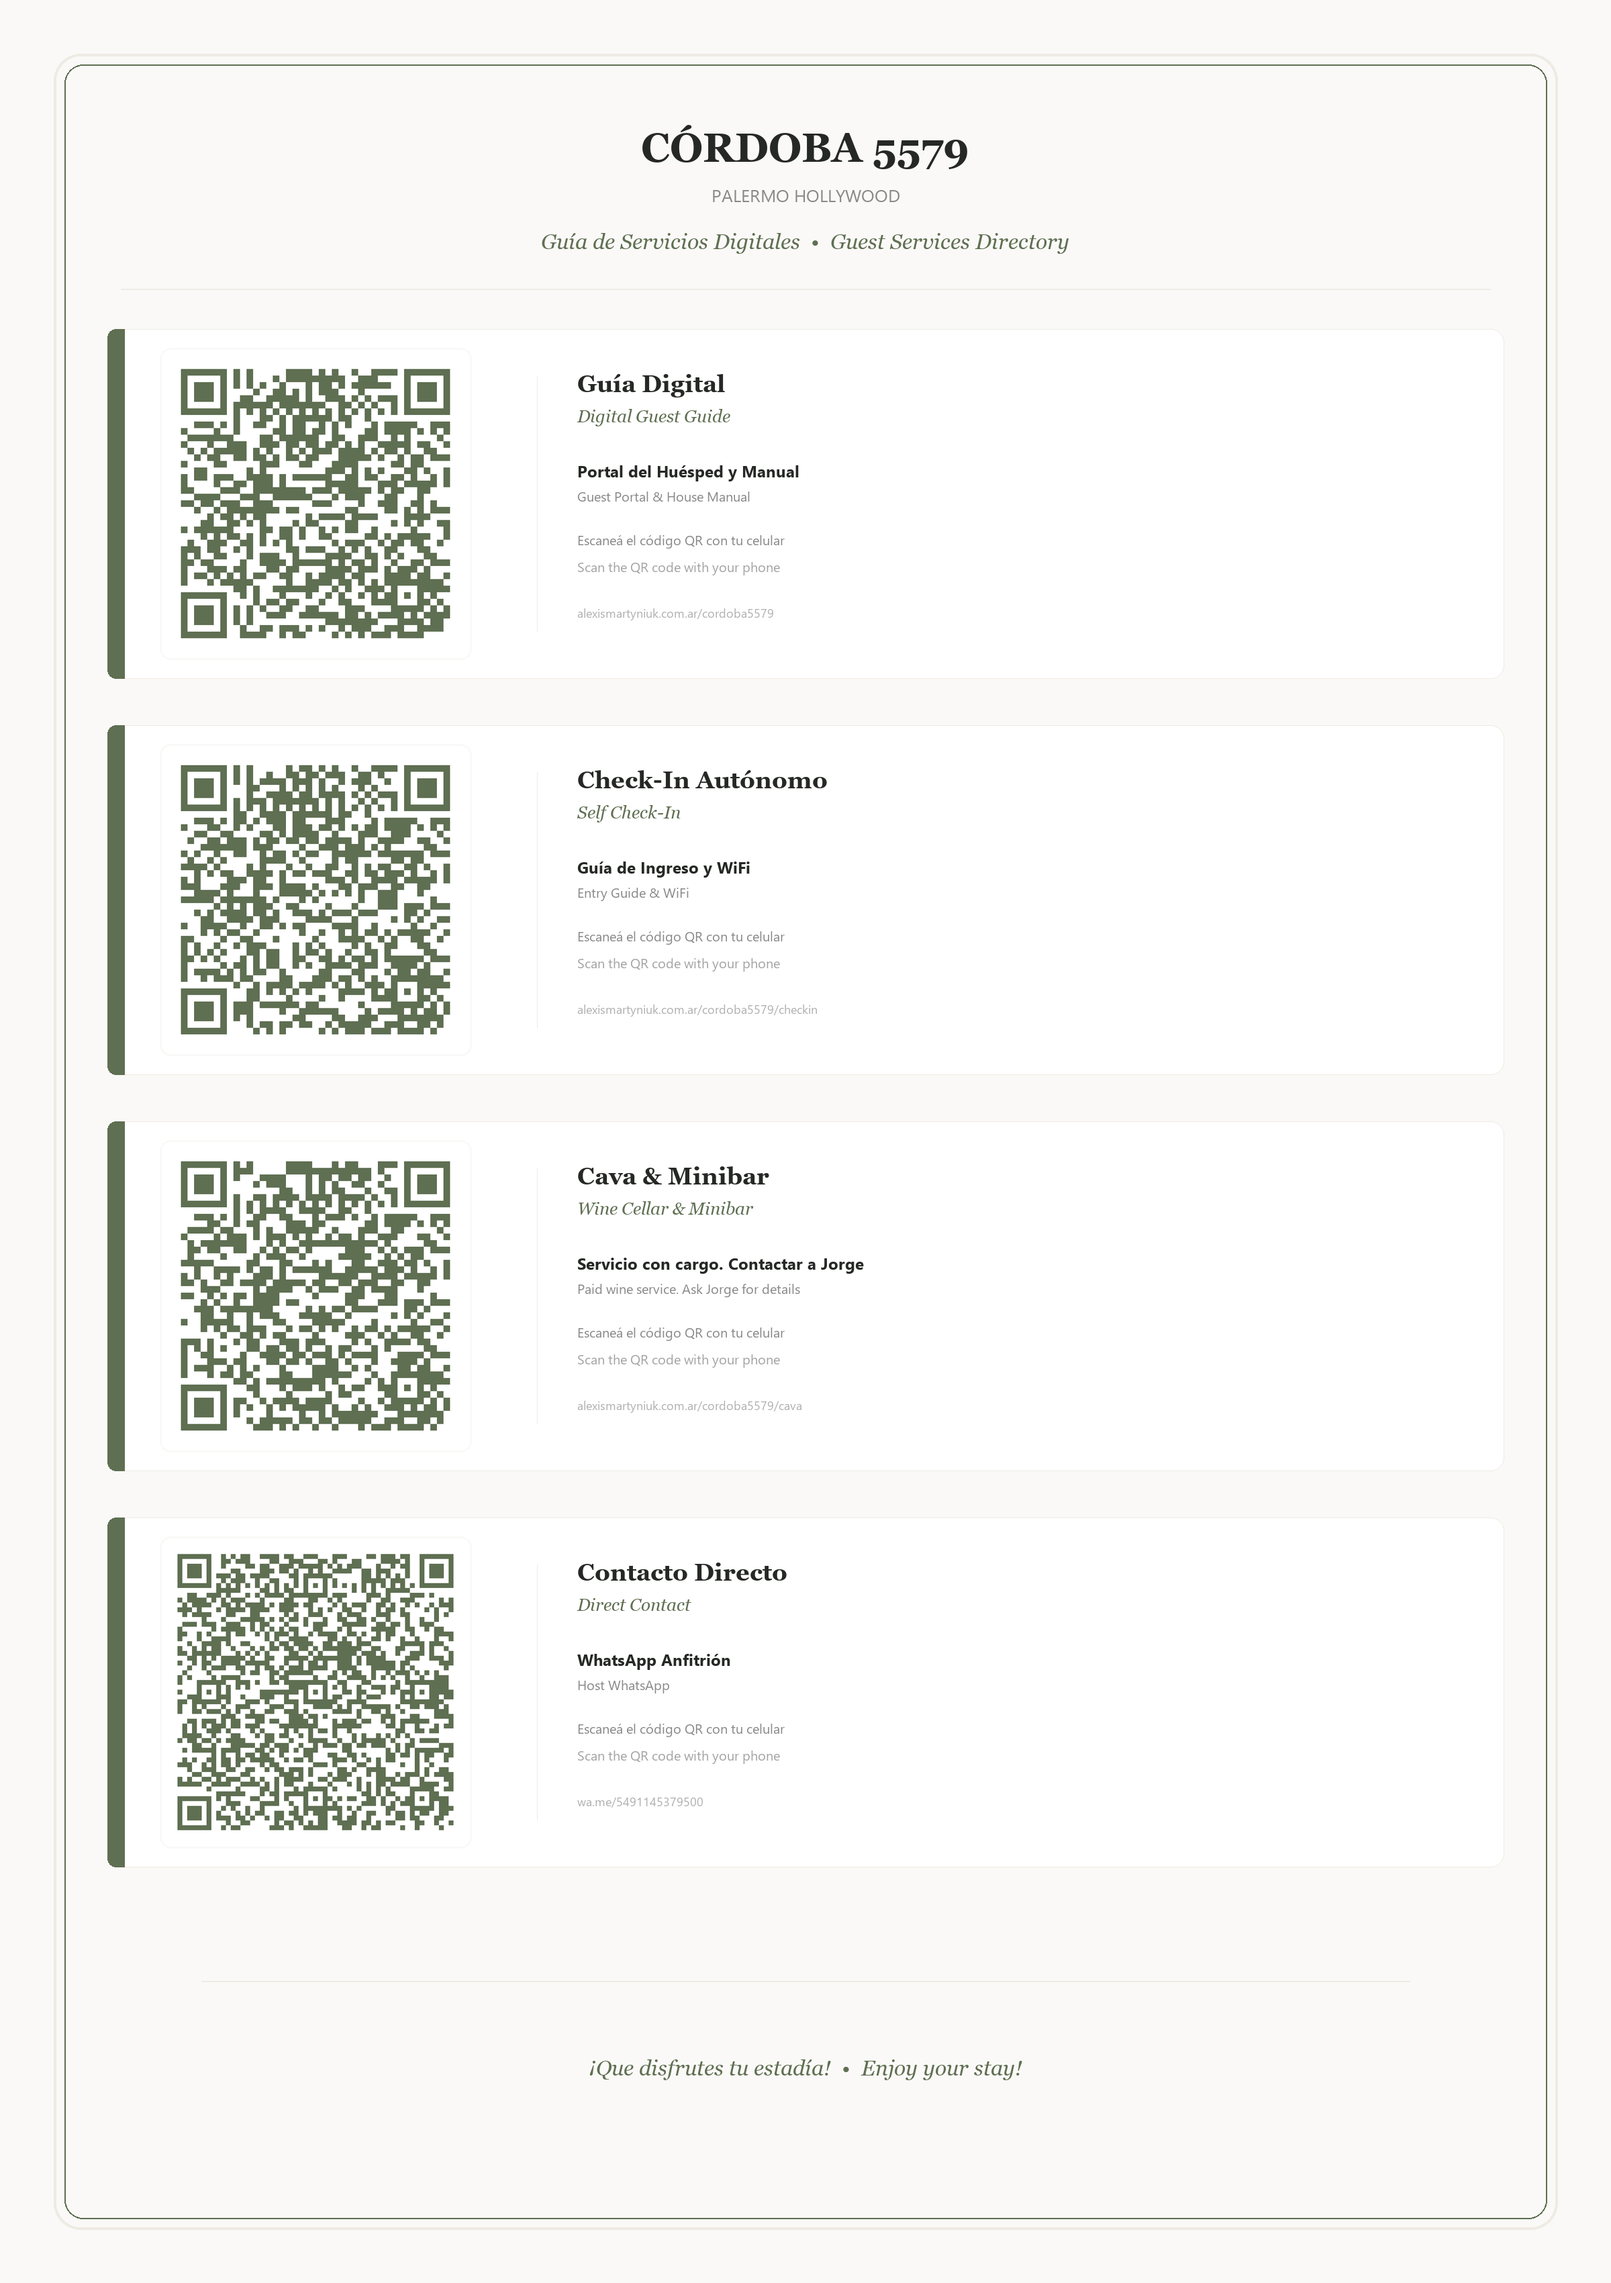
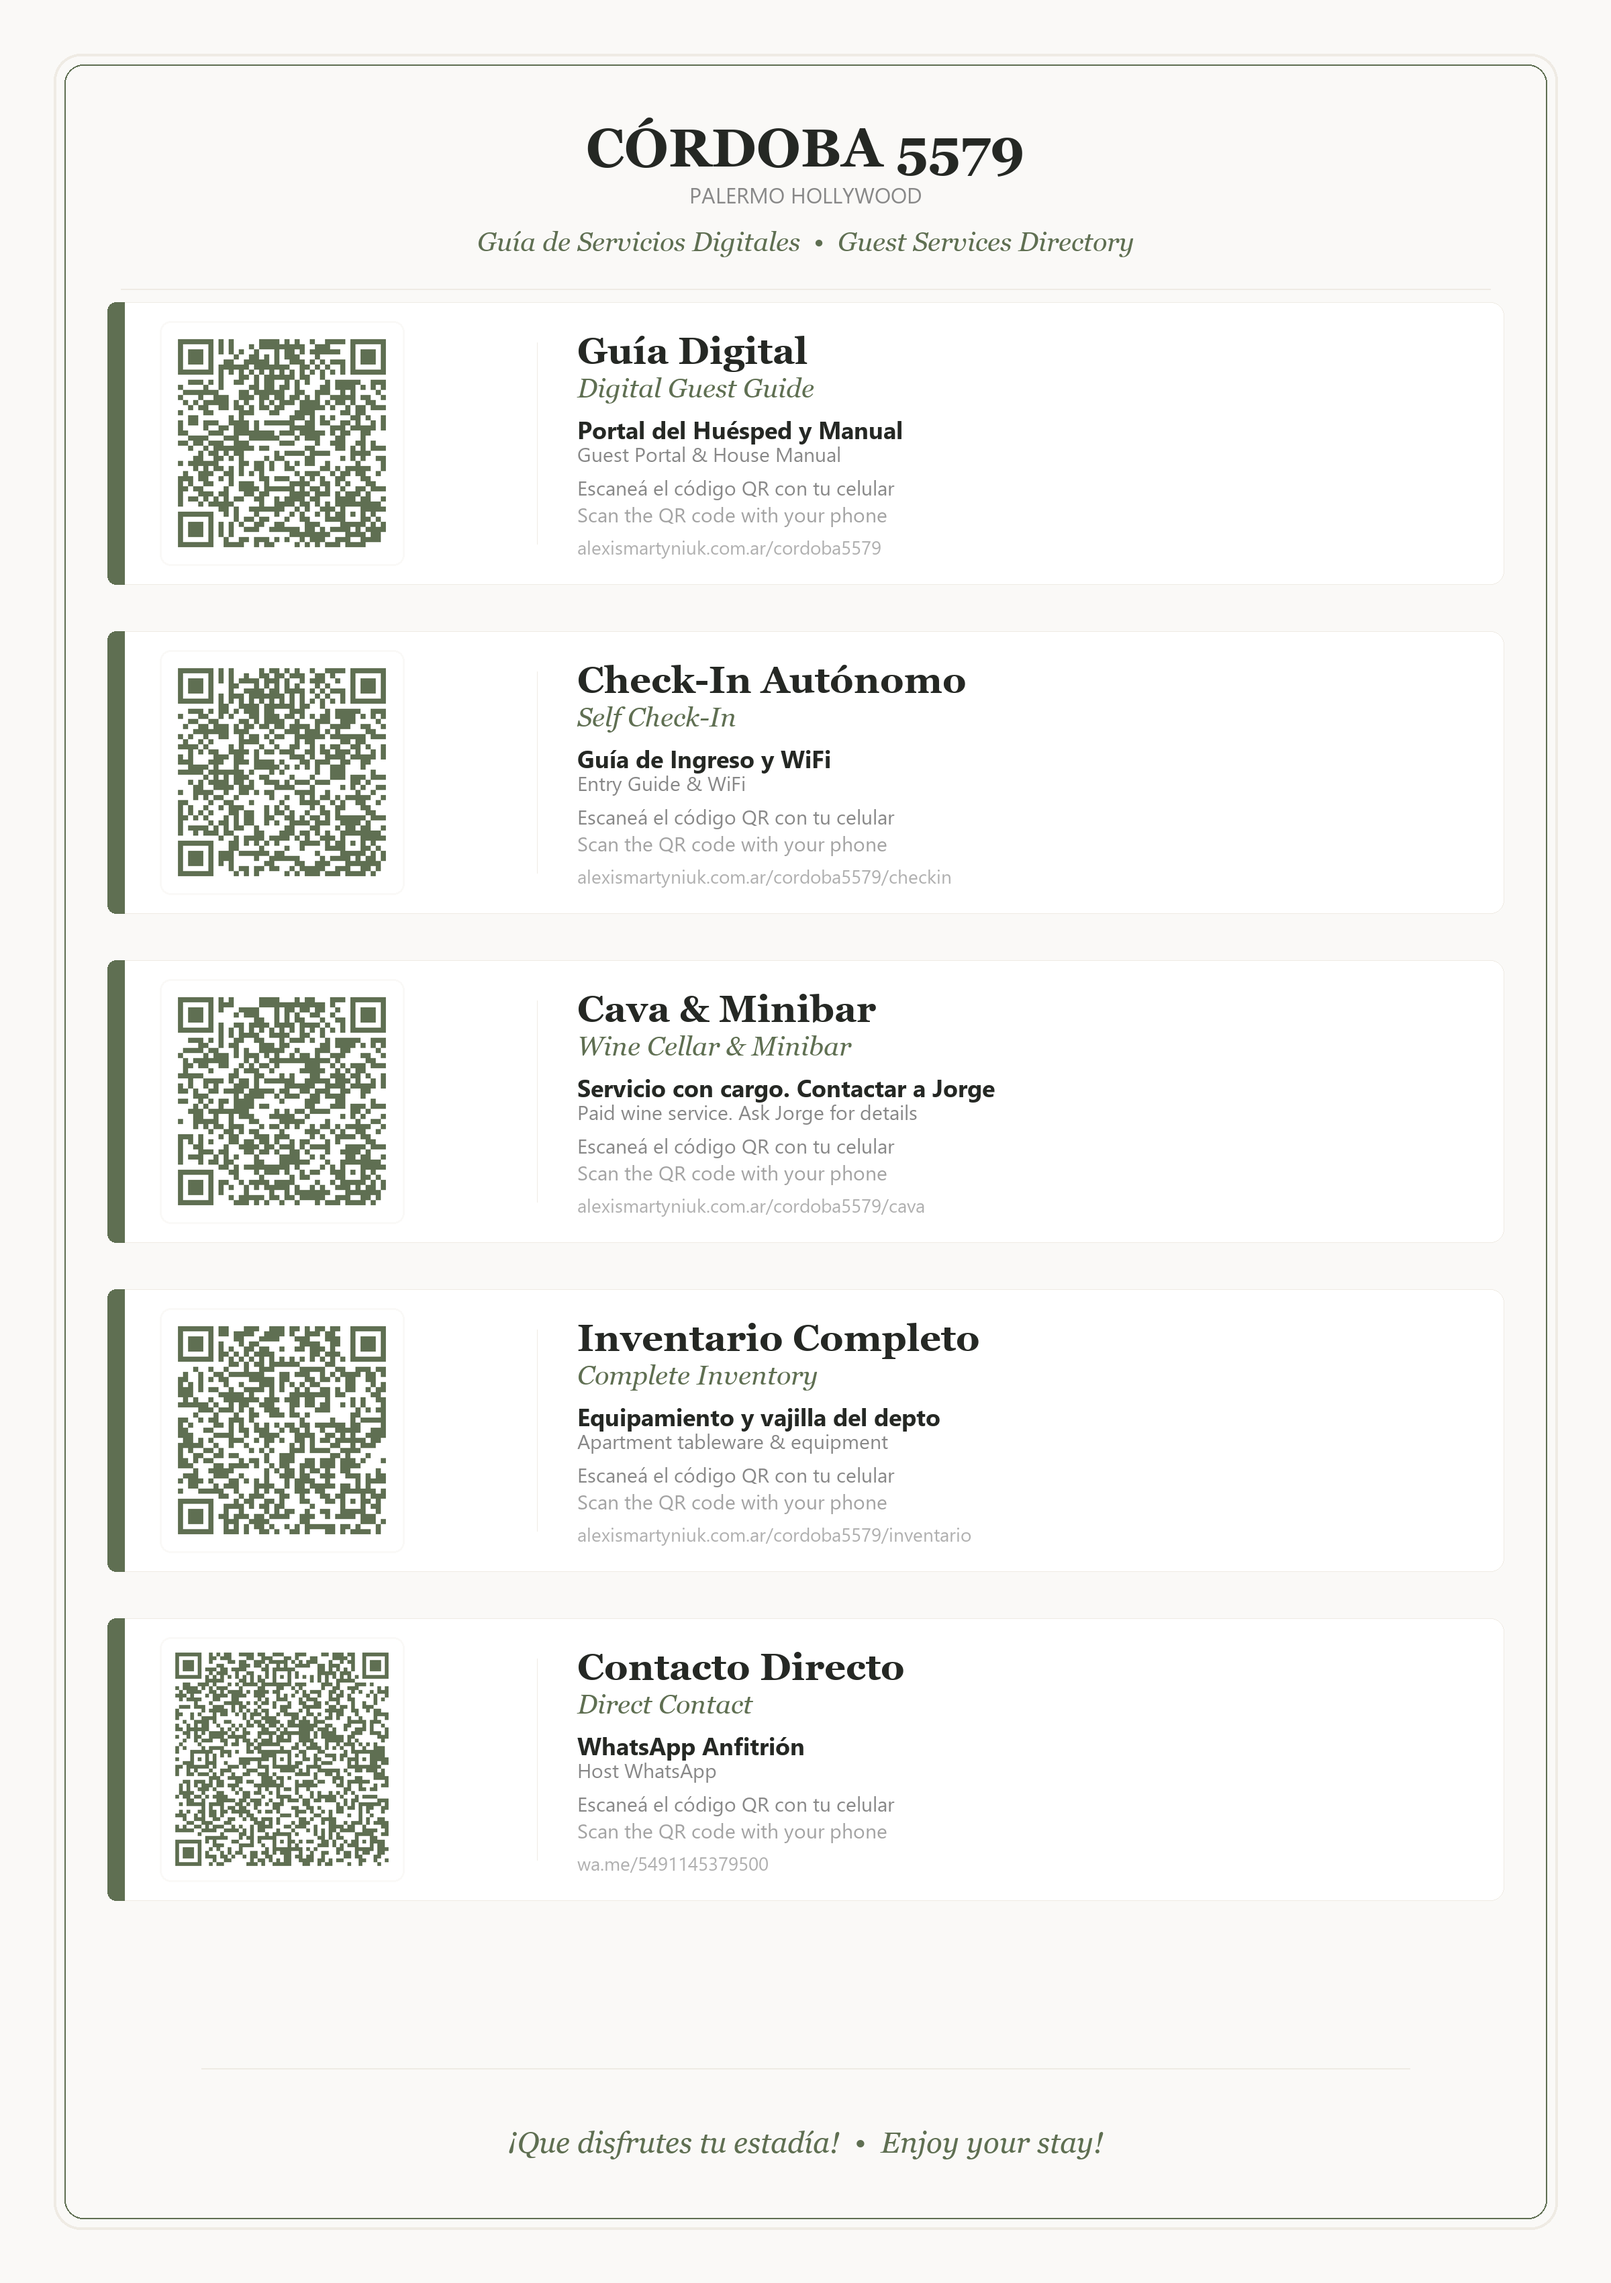
feat: add inventario QR code, include in unified sheet, and significantly enlarge sheet fonts for print readability

diff --git a/scripts/generate_qrs.py b/scripts/generate_qrs.py
@@ -42,6 +42,17 @@ CODES = [
         "bg": "#FAF9F7",
     },
     {
+        "name": "inventario",
+        "url": f"{BASE_URL}/inventario",
+        "display_url": "alexismartyniuk.com.ar/cordoba5579/inventario",
+        "label_es": "Inventario Completo",
+        "label_en": "Complete Inventory",
+        "sublabel_es": "Equipamiento y vajilla del depto",
+        "sublabel_en": "Apartment tableware & equipment",
+        "color": "#5F6F52",         # Olive green
+        "bg": "#FAF9F7",
+    },
+    {
         "name": "whatsapp",
         "url": WHATSAPP_URL,
         "display_url": "wa.me/5491145379500",
@@ -169,39 +180,37 @@ def make_card(code: dict) -> Image.Image:
     return card.convert("RGB")
 
 
-
-
 def make_unified_sheet() -> Image.Image:
-    """Generate a single unified A4 portrait guide (2400×3400px) with 4 horizontal rows of QRs."""
+    """Generate a single unified A4 portrait guide (2400×3400px) with 5 horizontal rows of QRs."""
     W, H = 2400, 3400
     card = Image.new("RGBA", (W, H), "#FAF9F7")
     draw = ImageDraw.Draw(card)
 
     # Use premium system fonts if available
     try:
-        font_logo = ImageFont.truetype("georgiab.ttf", 60) # Large Serif Logo
-        font_logo_sub = ImageFont.truetype("segoeui.ttf", 26)
-        font_logo_tag = ImageFont.truetype("georgiai.ttf", 32)
+        font_logo = ImageFont.truetype("georgiab.ttf", 80) # Large Serif Logo
+        font_logo_sub = ImageFont.truetype("segoeui.ttf", 32)
+        font_logo_tag = ImageFont.truetype("georgiai.ttf", 40)
         
-        font_title_es = ImageFont.truetype("georgiab.ttf", 36)
-        font_title_en = ImageFont.truetype("georgiai.ttf", 26)
-        font_label = ImageFont.truetype("segoeuib.ttf", 24)
-        font_sublabel = ImageFont.truetype("segoeui.ttf", 20)
-        font_url = ImageFont.truetype("segoeui.ttf", 18)
-        font_footer = ImageFont.truetype("georgiai.ttf", 32)
+        font_title_es = ImageFont.truetype("georgiab.ttf", 56)
+        font_title_en = ImageFont.truetype("georgiai.ttf", 40)
+        font_label = ImageFont.truetype("segoeuib.ttf", 36)
+        font_sublabel = ImageFont.truetype("segoeui.ttf", 30)
+        font_url = ImageFont.truetype("segoeui.ttf", 28)
+        font_footer = ImageFont.truetype("georgiai.ttf", 44)
     except IOError:
         # Fallback to standard times / arial
         try:
-            font_logo = ImageFont.truetype("timesbd.ttf", 60)
-            font_logo_sub = ImageFont.truetype("arial.ttf", 26)
-            font_logo_tag = ImageFont.truetype("timesi.ttf", 32)
+            font_logo = ImageFont.truetype("timesbd.ttf", 80)
+            font_logo_sub = ImageFont.truetype("arial.ttf", 32)
+            font_logo_tag = ImageFont.truetype("timesi.ttf", 40)
             
-            font_title_es = ImageFont.truetype("timesbd.ttf", 36)
-            font_title_en = ImageFont.truetype("timesi.ttf", 26)
-            font_label = ImageFont.truetype("arialbd.ttf", 24)
-            font_sublabel = ImageFont.truetype("arial.ttf", 20)
-            font_url = ImageFont.truetype("arial.ttf", 18)
-            font_footer = ImageFont.truetype("timesi.ttf", 32)
+            font_title_es = ImageFont.truetype("timesbd.ttf", 56)
+            font_title_en = ImageFont.truetype("timesi.ttf", 40)
+            font_label = ImageFont.truetype("arialbd.ttf", 36)
+            font_sublabel = ImageFont.truetype("arial.ttf", 30)
+            font_url = ImageFont.truetype("arial.ttf", 28)
+            font_footer = ImageFont.truetype("timesi.ttf", 44)
         except IOError:
             font_logo = ImageFont.load_default()
             font_logo_sub = font_logo
@@ -236,16 +245,16 @@ def make_unified_sheet() -> Image.Image:
     # Header divider
     draw.line([(180, 430), (W - 180, 430)], fill="#EFEBE4", width=2)
 
-    # 4 Row Centers Y-coordinates (equally distributed)
-    row_centers = [750, 1340, 1930, 2520]
+    # 5 Row Centers Y-coordinates (equally distributed)
+    row_centers = [660, 1150, 1640, 2130, 2620]
     
-    # Render 4 rows vertically stacked
+    # Render 5 rows vertically stacked
     for idx, code in enumerate(CODES):
         cy = row_centers[idx]
         
-        # 1. Row card backing (X=160 to X=2240, height 520px)
+        # 1. Row card backing (X=160 to X=2240, height 420px)
         draw.rounded_rectangle(
-            [160, cy - 260, 2240, cy + 260],
+            [160, cy - 210, 2240, cy + 210],
             radius=20,
             fill="white",
             outline="#EFEBE4",
@@ -254,19 +263,19 @@ def make_unified_sheet() -> Image.Image:
         
         # 2. Left side color vertical bar accent
         draw.rounded_rectangle(
-            [160, cy - 260, 185, cy + 260],
+            [160, cy - 210, 185, cy + 210],
             radius=20,
             fill=code["color"]
         )
         # Cover right corners of accent bar
-        draw.rectangle([170, cy - 260, 185, cy + 260], fill=code["color"])
+        draw.rectangle([170, cy - 210, 185, cy + 210], fill=code["color"])
 
-        # 3. QR Code (enlarged size to 440px inside 520px height)
+        # 3. QR Code (enlarged size to 340px inside 420px height)
         qr_img = make_qr(code["url"], code["color"], "white")
-        qr_size = 440
+        qr_size = 340
         qr_img = qr_img.resize((qr_size, qr_size), Image.LANCZOS)
         qr_x = 250
-        qr_y = cy - 220
+        qr_y = cy - 170
         
         # QR Backing outline
         draw.rounded_rectangle(
@@ -279,32 +288,30 @@ def make_unified_sheet() -> Image.Image:
         card.paste(qr_img, (qr_x, qr_y), mask=qr_img)
 
         # 4. Vertical inner divider line between QR and details
-        draw.line([(800, cy - 190), (800, cy + 190)], fill="#EFEBE4", width=1)
+        draw.line([(800, cy - 150), (800, cy + 150)], fill="#EFEBE4", width=1)
 
         # 5. Text details (placed on the right side of the row, left-aligned)
         text_x = 860
         
         # Titles
-        draw.text((text_x, cy - 200), code["label_es"], fill="#252824", font=font_title_es, anchor="la")
-        draw.text((text_x, cy - 145), code["label_en"], fill="#5F6F52", font=font_title_en, anchor="la")
+        draw.text((text_x, cy - 170), code["label_es"], fill="#252824", font=font_title_es, anchor="la")
+        draw.text((text_x, cy - 105), code["label_en"], fill="#5F6F52", font=font_title_en, anchor="la")
 
         # Sublabels
-        draw.text((text_x, cy - 65), code["sublabel_es"], fill="#252824", font=font_label, anchor="la")
-        draw.text((text_x, cy - 25), code["sublabel_en"], fill="#888888", font=font_sublabel, anchor="la")
+        draw.text((text_x, cy - 45), code["sublabel_es"], fill="#252824", font=font_label, anchor="la")
+        draw.text((text_x, cy - 5), code["sublabel_en"], fill="#888888", font=font_sublabel, anchor="la")
 
         # Instructions
-        draw.text((text_x, cy + 40), "Escaneá el código QR con tu celular", fill="#888888", font=font_sublabel, anchor="la")
-        draw.text((text_x, cy + 80), "Scan the QR code with your phone", fill="#a3a3a3", font=font_sublabel, anchor="la")
+        draw.text((text_x, cy + 45), "Escaneá el código QR con tu celular", fill="#888888", font=font_sublabel, anchor="la")
+        draw.text((text_x, cy + 85), "Scan the QR code with your phone", fill="#a3a3a3", font=font_sublabel, anchor="la")
 
         # Web URL
         display_text = code.get("display_url", code["url"])
-        draw.text((text_x, cy + 150), display_text, fill="#B0B0B0", font=font_url, anchor="la")
-
-
+        draw.text((text_x, cy + 135), display_text, fill="#B0B0B0", font=font_url, anchor="la")
 
     # Bottom Footer section
-    draw.line([(300, 2950), (W - 300, 2950)], fill="#EFEBE4", width=2)
-    draw.text((W // 2, 3080), "¡Que disfrutes tu estadía!  •  Enjoy your stay!", fill="#5F6F52", font=font_footer, anchor="mm")
+    draw.line([(300, 3080), (W - 300, 3080)], fill="#EFEBE4", width=2)
+    draw.text((W // 2, 3190), "¡Que disfrutes tu estadía!  •  Enjoy your stay!", fill="#5F6F52", font=font_footer, anchor="mm")
 
     return card.convert("RGB")
 
